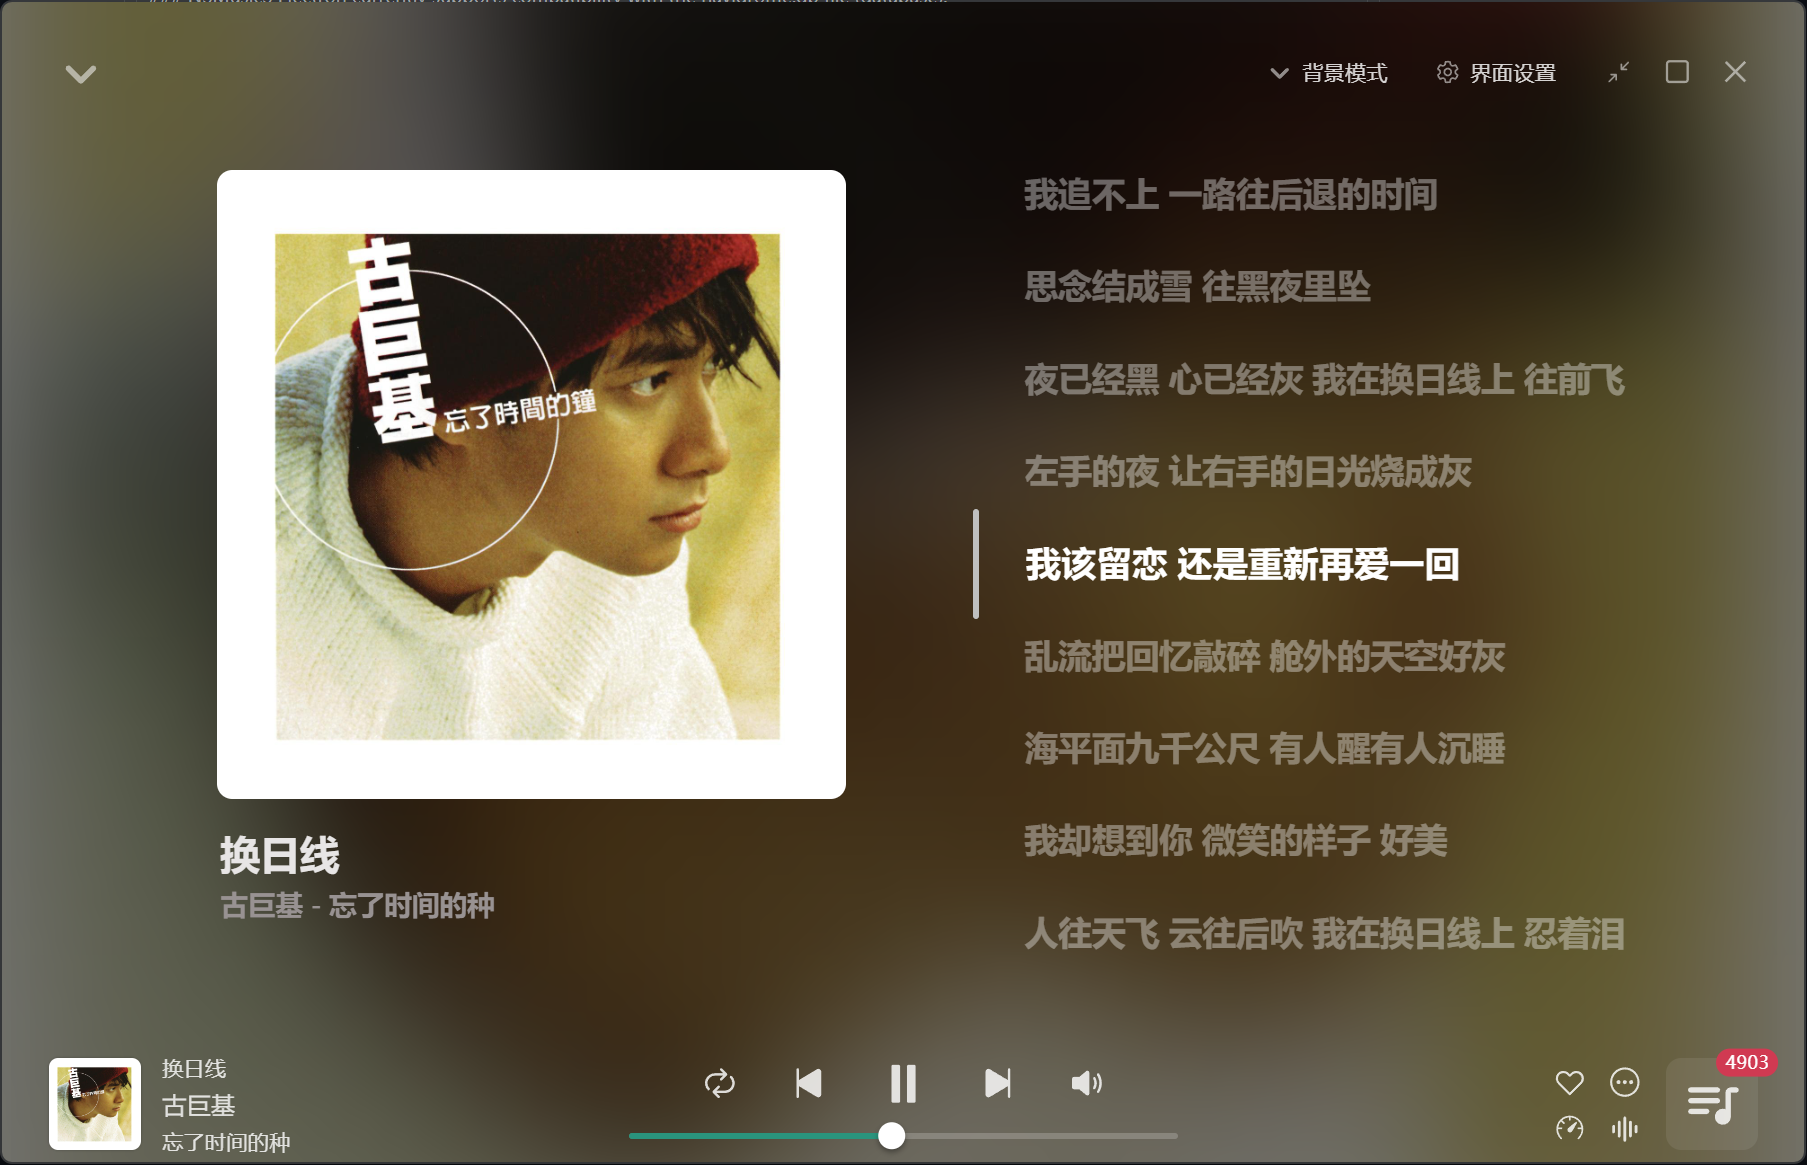
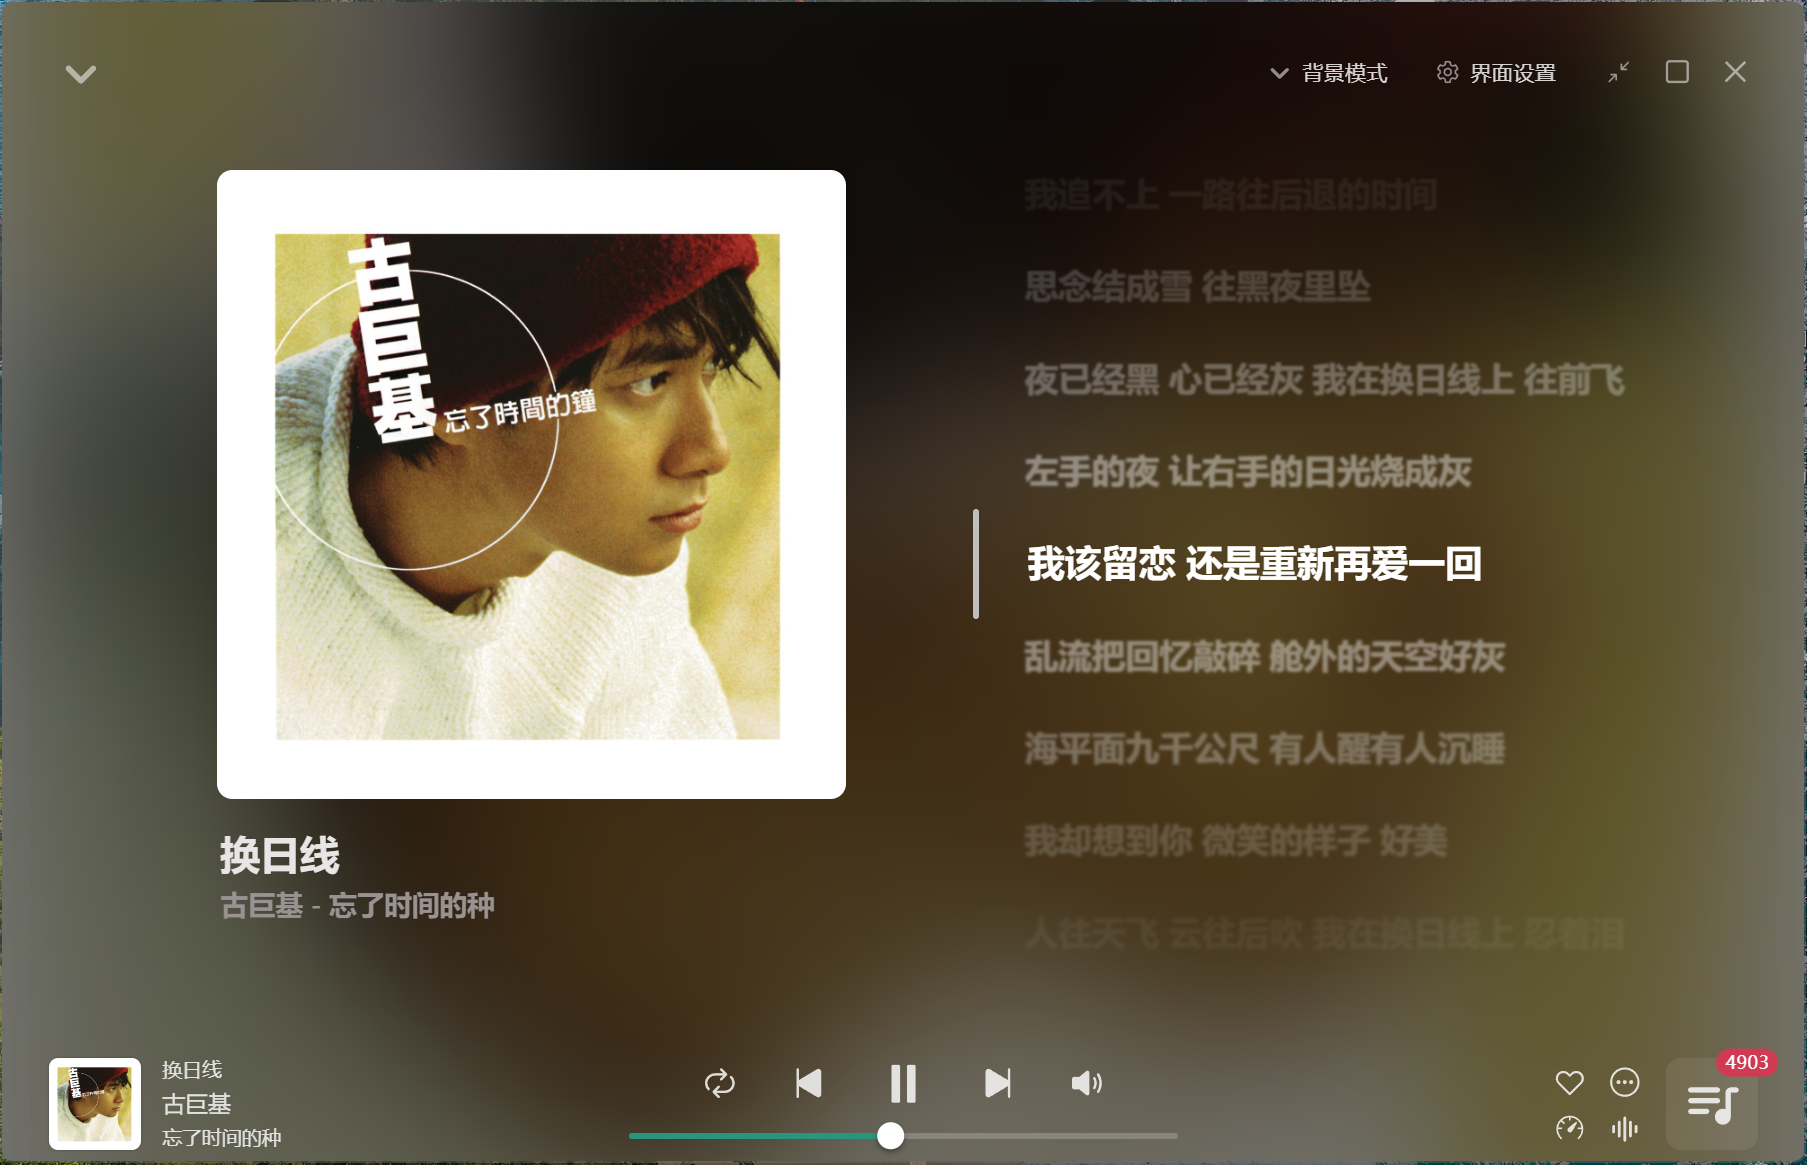
update: Electron player lyric

diff --git a/NSMusicS_For_Web/NSMusicS_Web_APP/src/views/View_Screen_Music_Player.vue b/NSMusicS_For_Web/NSMusicS_Web_APP/src/views/View_Screen_Music_Player.vue
@@ -88,10 +88,12 @@
     emits('play_go_index_time', time);
   };
   const scrollbar = ref(null as any);
-  const virtualListInst = ref<VirtualListInst>()
   const perviousIndex = ref(0);
   const scrollToItem = (index: number) => {
     if (!scrollbar.value) {
+      return;
+    }
+    if(lyrics_list_whell.value){
       return;
     }
 
@@ -101,12 +103,13 @@
 
     const itemElements = scrollbar.value.$el.querySelectorAll('.lyrics_info');
     itemElements[index].style.color = player_theme_lyricItem_0_bind_style.value.hoverStyle.colorHover;
+    itemElements[index].style.filter = 'blur(0px)';
     itemElements[index].style.transition = 'color 0.5s, transform 0.5s';
     if(collapsed_slider.value === false){
-      itemElements[index].style.transform = 'scale(1.05) translateY(0px)';
+      itemElements[index].style.transform = 'scale(1.1) translateY(0px)';
       itemElements[index].style.transformOrigin = 'left center';
     }else{
-      itemElements[index].style.transform = 'scale(1.1)  translateX(8px)';
+      itemElements[index].style.transform = 'scale(1.1)  translateX(0px)';
       itemElements[index].style.transformOrigin = 'center';
     }
     // BUG: if space-line Not fully covered at the bottom, exceeding the bottom portion , The entire page will be moved up，because block: 'center' used this page
@@ -117,6 +120,20 @@
         if(perviousIndex.value >= props.this_audio_lyrics_info_line_num){
           itemElements[perviousIndex.value].style.color = player_theme_lyricItem_0_bind_style.value.normalStyle.color;
           itemElements[perviousIndex.value].style.transform = 'scale(1)';
+          
+          let color_hidden = player_lyric_color.value.slice(0, -2);
+          let blurValue = 0.05;
+          for (let i = index - 16; i <= index + 16; i++) {
+            if (i < index) {
+              itemElements[i].style.color = `${color_hidden}${Math.max(90 - (index - i) * 20, 0)}`;
+              itemElements[i].style.filter = `blur(${blurValue}px)`;
+              blurValue += 0.05;
+            } else {
+              itemElements[i].style.color = `${color_hidden}${Math.max(90 - (i - index) * 20, 0)}`;
+              itemElements[i].style.filter = `blur(${blurValue}px)`;
+              blurValue += 0.05;
+            }
+          }
         }
       }
     }
@@ -125,9 +142,31 @@
   const lyrics_list_whell = ref(false);
   const handleWheel = (event: any) => {
     lyrics_list_whell.value = true;
+    const itemElements = scrollbar.value.$el.querySelectorAll('.lyrics_info');
+    for (let i = 0; i < itemElements.length; i++) {
+      itemElements[i].style.color = player_theme_lyricItem_0_bind_style.value.normalStyle.color;
+      itemElements[i].style.transform = 'scale(1)';
+      itemElements[i].style.filter = 'blur(0px)';
+    }
   };
   const handleLeave = () => {
     lyrics_list_whell.value = false;
+    const itemElements = scrollbar.value.$el.querySelectorAll('.lyrics_info');
+    let color_hidden = player_lyric_color.value.slice(0, -2);
+    let blurValue = 0.05;
+    for (let i = perviousIndex.value - 16; i <= perviousIndex.value + 16; i++) {
+      if (i < perviousIndex.value) {
+        const colorValue = Math.max(90 - (perviousIndex.value - i) * 20, 0);
+        itemElements[i].style.color = colorValue === 0 ? 'transparent' : `${color_hidden}${colorValue}`;
+        itemElements[i].style.filter = `blur(${blurValue}px)`;
+        blurValue += 0.05;
+      } else {
+        const colorValue = Math.max(90 - (i - perviousIndex.value) * 20, 0);
+        itemElements[i].style.color = colorValue === 0 ? 'transparent' : `${color_hidden}${colorValue}`;
+        itemElements[i].style.filter = `blur(${blurValue}px)`;
+        blurValue += 0.05;
+      }
+    }
   };
   ////// player theme seting
   const collapsed_slider = ref(false);// collapsed_slider.value = player_theme_lyricItem_0_bind_style.value.normalStyle.collapsed_slider;
@@ -823,13 +862,15 @@
   z-index: -1;
 }
 .lyrics_info {
-  color: v-bind(player_lyric_color);
+  /* color: v-bind(player_lyric_color); */
+  color: transparent;
   width: calc(40vw);
   margin-top: 6px;min-height: 50px;
   cursor: pointer;
   border-radius: 10px;
   line-height: 1.2;
   transition: color 0.5s, background-color 0.5s;
+  filter: blur(0.05px);
 }
 .lyrics_info:hover {
   background-color: #FFFFFF16;

diff --git a/NSMusicS_For_Web/NSMusicS_Web_APP/src/components/Bar_Music_Player.vue b/NSMusicS_For_Web/NSMusicS_Web_APP/src/components/Bar_Music_Player.vue
@@ -802,11 +802,11 @@
 .gird_Left .bar_left_text_song_info{
   width: 280px;
   height: 56px;
-  margin-top: 5px;margin-left: 14px;
+  margin-top: 7px;margin-left: 14px;
   float: left;text-align: left;
 }
 .gird_Left .bar_left_text_song_info #bar_singer_name{
-  font-size: 16px;
+  font-size: 15px;
   font-weight: 500;
   user-select: none;
   max-width: 240px;
@@ -822,7 +822,7 @@
   color: #3DC3FF;
 }
 .gird_Left .bar_left_text_song_info #bar_song_name{
-  font-size: 14px;
+  font-size: 13px;
   font-weight: 500;
   max-width: 240px;
   /* 行数超出后显示省略号 */
@@ -837,7 +837,7 @@
   color: #3DC3FF;
 }
 .gird_Left .bar_left_text_song_info #bar_album_name{
-  font-size: 14px;
+  font-size: 13px;
   font-weight: 500;
   max-width: 240px;
   /* 行数超出后显示省略号 */
